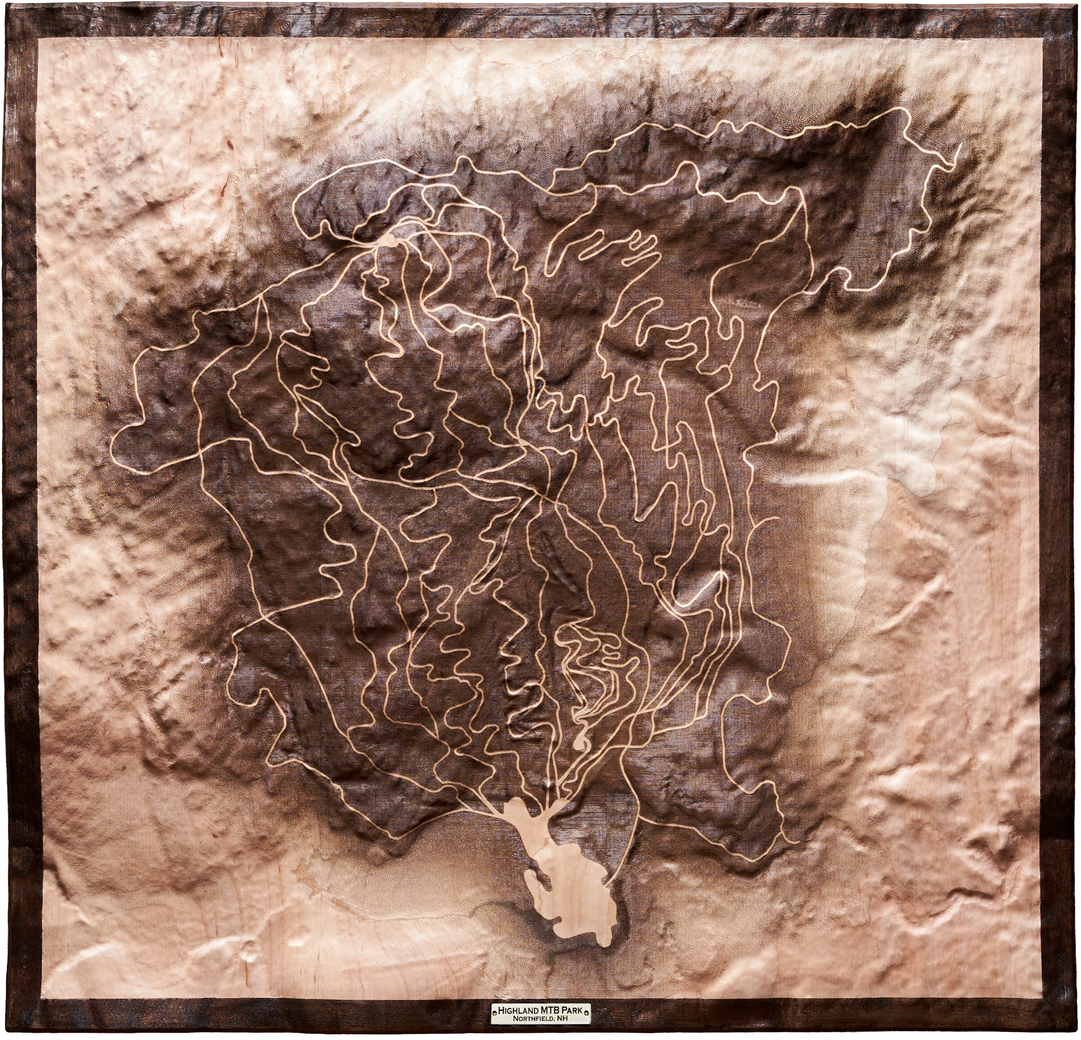
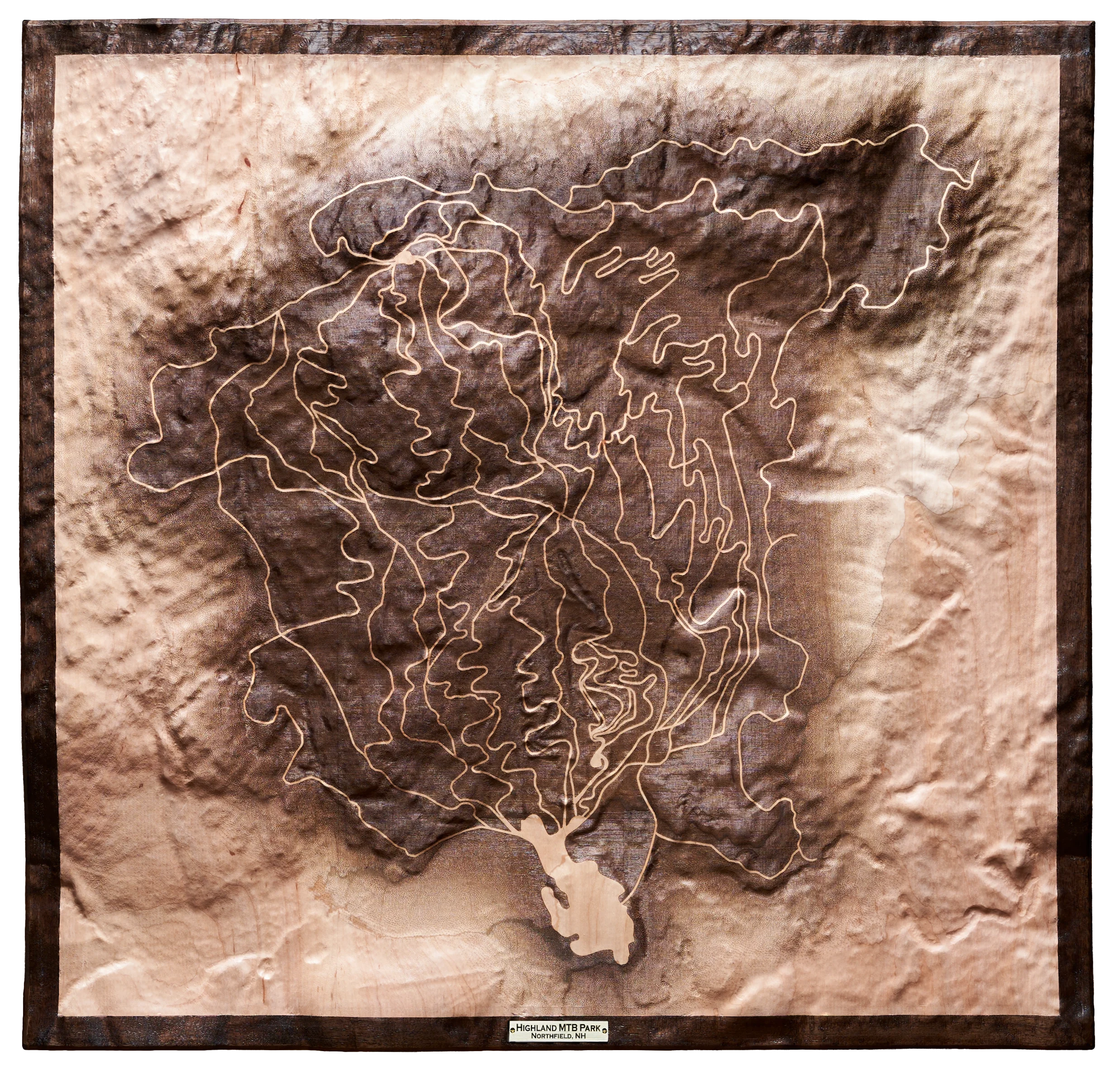
Update

diff --git a/styles.css b/styles.css
@@ -792,58 +792,64 @@ ul {
 
 /* ============================================
    LUXURY DROP SHADOWS - DUAL SHADOW SYSTEM
+   Gallery Standard Enhancement - Authentic museum depth
    ============================================ */
 
-/* Individual Piece Pages - Hero Image (Large, 1400px max-width) */
-/* Using gallery standard sizing for hero presentation */
+/* Individual Piece Pages - Hero Images (Large Format - Gallery Standard)
+   Matches how 1400px framed artwork appears in actual galleries */
 .piece-hero-image {
   filter:
-    drop-shadow(0 5px 10px rgba(42, 42, 42, 0.15))
-    drop-shadow(0 16px 36px rgba(26, 26, 26, 0.12));
+    drop-shadow(0 7px 14px rgba(42, 42, 42, 0.20))    /* Contact shadow - defined edge where artwork "touches" wall */
+    drop-shadow(0 22px 50px rgba(26, 26, 26, 0.16));  /* Ambient shadow - soft halo from overhead gallery lighting */
 }
 
-/* Individual Piece Pages - Gallery Images (Medium, ~800-1200px) */
+/* Individual Piece Pages - Gallery Section Images (Medium Format)
+   Proportionally scaled for 800-1200px images */
 .gallery-image-wrapper img {
   filter:
-    drop-shadow(0 4px 8px rgba(42, 42, 42, 0.15))
-    drop-shadow(0 12px 28px rgba(26, 26, 26, 0.12));
+    drop-shadow(0 6px 11px rgba(42, 42, 42, 0.20))    /* Contact shadow */
+    drop-shadow(0 17px 40px rgba(26, 26, 26, 0.16));  /* Ambient shadow */
 }
 
-/* Home Page - Featured Work Items */
+/* Home Page - Featured Work Items (Medium Format)
+   Matches gallery section for consistency */
 .work-image {
   filter:
-    drop-shadow(0 4px 8px rgba(42, 42, 42, 0.15))
-    drop-shadow(0 12px 28px rgba(26, 26, 26, 0.12));
+    drop-shadow(0 6px 11px rgba(42, 42, 42, 0.20))    /* Contact shadow */
+    drop-shadow(0 17px 40px rgba(26, 26, 26, 0.16));  /* Ambient shadow */
 }
 
-/* Gallery Page - Grid Items (shown at relative scale) */
+/* Gallery Page - Grid Items (Variable Sizes)
+   Slightly stronger opacity compensates for smaller display scale */
 .gallery-item-image {
   filter:
-    drop-shadow(0 3px 6px rgba(42, 42, 42, 0.16))
-    drop-shadow(0 10px 24px rgba(26, 26, 26, 0.14));
+    drop-shadow(0 4px 9px rgba(42, 42, 42, 0.21))     /* Contact shadow - stronger for small scale */
+    drop-shadow(0 14px 34px rgba(26, 26, 26, 0.18)); /* Ambient shadow */
 }
 
-/* Mobile Optimization - Reduce shadow intensity on smaller screens */
+/* Mobile Optimization - Reduce shadow intensity on smaller screens
+   Prevents overwhelming mobile viewports while maintaining presence */
 @media (max-width: 767px) {
   .piece-hero-image,
   .gallery-image-wrapper img,
   .work-image,
   .gallery-item-image {
     filter:
-      drop-shadow(0 3px 6px rgba(42, 42, 42, 0.14))
-      drop-shadow(0 8px 20px rgba(26, 26, 26, 0.11));
+      drop-shadow(0 4px 8px rgba(42, 42, 42, 0.16))   /* Lighter contact shadow */
+      drop-shadow(0 10px 26px rgba(26, 26, 26, 0.13)); /* Lighter ambient shadow */
   }
 }
 
-/* High-DPI Displays - Slightly enhance shadow quality */
+/* High-DPI Display Enhancement (Retina/4K)
+   Subtle increase in shadow quality appears correct on premium displays */
 @media (-webkit-min-device-pixel-ratio: 2), (min-resolution: 192dpi) {
   .piece-hero-image,
   .gallery-image-wrapper img,
   .work-image,
   .gallery-item-image {
     filter:
-      drop-shadow(0 4px 8px rgba(42, 42, 42, 0.16))
-      drop-shadow(0 12px 30px rgba(26, 26, 26, 0.13));
+      drop-shadow(0 5px 10px rgba(42, 42, 42, 0.19))   /* Enhanced contact definition */
+      drop-shadow(0 15px 38px rgba(26, 26, 26, 0.15)); /* Enhanced ambient depth */
   }
 }
 

diff --git a/pieces/highland.html b/pieces/highland.html
@@ -76,7 +76,7 @@
   <main class="site-main">
     <section class="piece-hero" id="piece-hero">
       <div class="piece-hero-image-container">
-        <img src="../images/highland/highland.hero.pad.webp" alt="Highland Mountain Bike Trails topographic relief map" class="piece-hero-image" />
+        <img src="../images/highland/Layer 1.webp" alt="Highland Mountain Bike Trails topographic relief map" class="piece-hero-image" />
       </div>
       <div class="piece-hero-content">
         <h1 class="piece-hero-title">Highland Mountain</h1>
